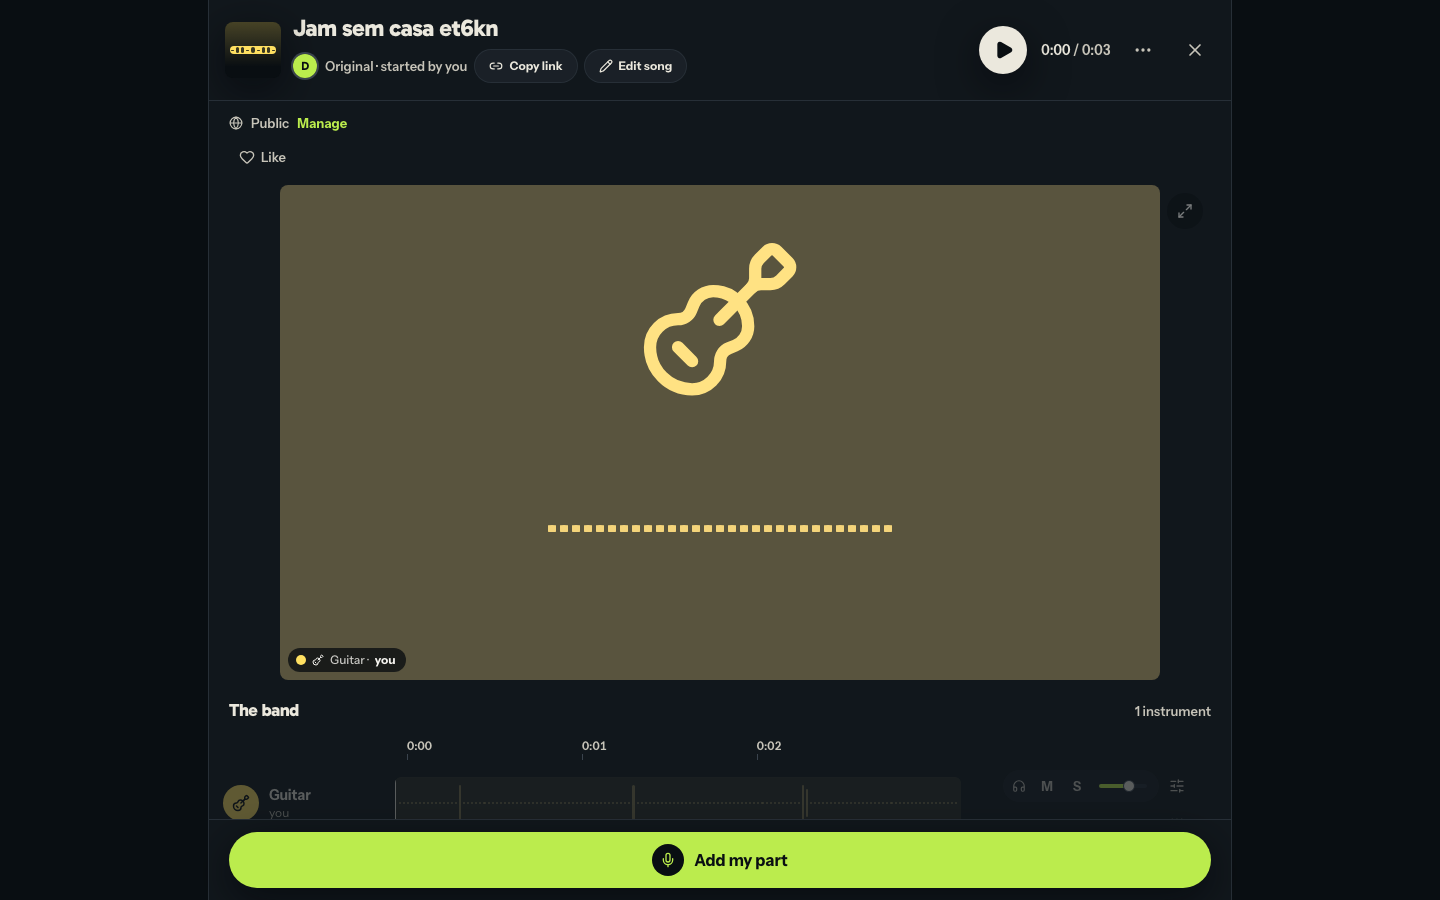
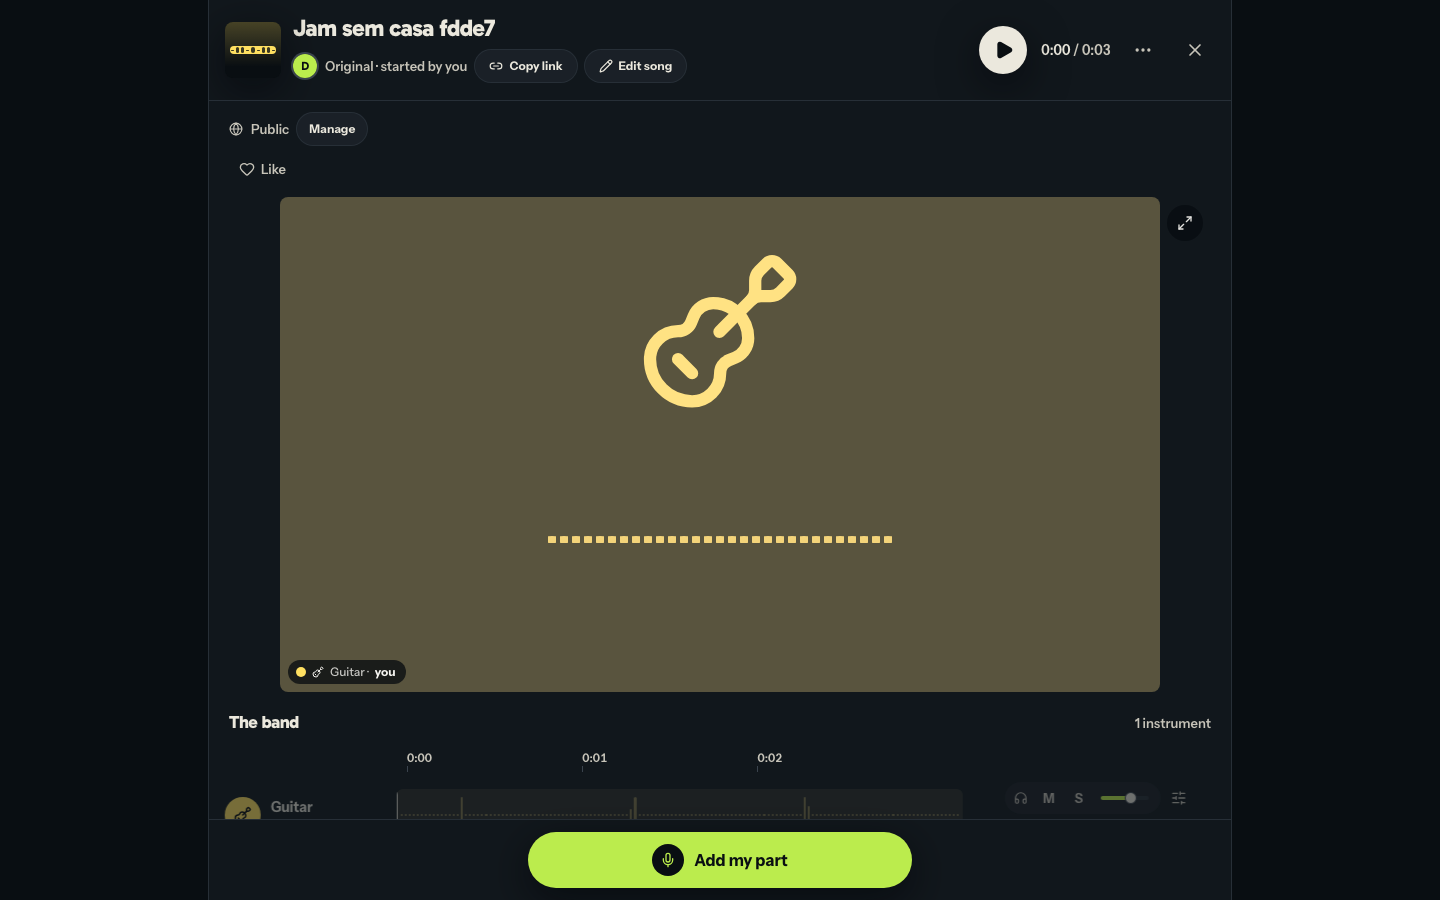
Public jams in the app: review fixes (consent, strips, shelf art, send-my-part)
Claude-Session: https://claude.ai/code/session_01SbDEYcT1nVK2TvtouUGA4w

diff --git a/client/src/components/jam/jam-public-sheet.tsx b/client/src/components/jam/jam-public-sheet.tsx
@@ -105,7 +105,7 @@ export function JamPublicSheet({ open, onClose, songId, viewerId, songTitle, ori
                 </ul>
                 <p>{t("jam.public.sheet.consent")}</p>
                 {hasOrigin && (
-                  <div className="rounded-[var(--radius-card)] bg-surface-2 px-3.5 py-1">
+                  <div className="rounded-[var(--radius-card)] bg-surface-2 px-2 py-1">
                     <Switch
                       checked={showOriginDraft}
                       onCheckedChange={setShowOriginDraft}
@@ -156,19 +156,22 @@ export function JamPublicSheet({ open, onClose, songId, viewerId, songTitle, ori
       <DialogBody>
         <div className="flex flex-col gap-4 text-sm leading-snug text-text-secondary" data-jam-public-sheet="on">
           <p role="status" className="text-text" data-jam-public-status={pub.status}>
-            {pub.status === "live" && !pub.listed ? t("jam.public.status.liveUnlisted") : t(`jam.public.status.${pub.status}` as MessageKey)}
+            {pub.status === "live" && pub.listed ? (
+              <a
+                href={publicUrl}
+                target="_blank"
+                rel="noreferrer"
+                className="font-semibold text-accent underline-offset-2 hover:underline focus-visible:rounded-sm focus-visible:outline-none focus-visible:ring-2 focus-visible:ring-focus-ring"
+              >
+                {t("jam.public.status.live")}
+              </a>
+            ) : pub.status === "live" ? (
+              t("jam.public.status.liveUnlisted")
+            ) : (
+              t(`jam.public.status.${pub.status}` as MessageKey)
+            )}
           </p>
           {pub.status === "live" && !pub.listed && <p>{t("jam.public.manage.notListed")}</p>}
-          {pub.status === "live" && pub.listed && (
-            <a
-              href={publicUrl}
-              target="_blank"
-              rel="noreferrer"
-              className="w-fit font-semibold text-accent underline-offset-2 hover:underline focus-visible:rounded-sm focus-visible:outline-none focus-visible:ring-2 focus-visible:ring-focus-ring"
-            >
-              {t("jam.public.manage.open")}
-            </a>
-          )}
 
           {parts.length > 0 && (
             <section aria-labelledby="jam-public-parts" className="flex flex-col gap-1.5">
@@ -201,14 +204,8 @@ export function JamPublicSheet({ open, onClose, songId, viewerId, songTitle, ori
             </section>
           )}
 
-          {pub.pendingTakes > 0 && (
-            <p data-jam-public-pending-takes="">
-              {t("jam.public.manage.pendingTakes", { count: pub.pendingTakes, countLabel: pub.pendingTakes })}
-            </p>
-          )}
-
           {pub.hasOrigin && originName !== null && (
-            <div className="rounded-[var(--radius-card)] bg-surface-2 px-3.5 py-1">
+            <div className="rounded-[var(--radius-card)] bg-surface-2 px-2 py-1">
               <Switch
                 checked={pub.showOrigin}
                 busy={busy}

diff --git a/client/src/components/jam/jam-public-parts.tsx b/client/src/components/jam/jam-public-parts.tsx
@@ -34,13 +34,13 @@ export function JamConsentChoices({
   const { t } = useTranslation();
   return (
     <div role="group" aria-label={t("jam.public.consent.legend")} className={cn("flex flex-wrap items-center gap-2", className)}>
-      <Button size="sm" variant={current === undefined || current === "yes" ? "default" : "secondary"} aria-pressed={pick("yes")} disabled={busy} onClick={() => onChoose("yes")} data-jam-consent="yes">
+      <Button size="sm" className="pointer-coarse:h-11" variant={current === "yes" ? "default" : "secondary"} aria-pressed={pick("yes")} disabled={busy} onClick={() => onChoose("yes")} data-jam-consent="yes">
         {t("jam.public.consent.yes")}
       </Button>
-      <Button size="sm" variant={current === "audio_only" ? "default" : "secondary"} aria-pressed={pick("audio_only")} disabled={busy} onClick={() => onChoose("audio_only")} data-jam-consent="audio_only">
+      <Button size="sm" className="pointer-coarse:h-11" variant={current === "audio_only" ? "default" : "secondary"} aria-pressed={pick("audio_only")} disabled={busy} onClick={() => onChoose("audio_only")} data-jam-consent="audio_only">
         {t("jam.public.consent.audioOnly")}
       </Button>
-      <Button size="sm" variant={current === "no" ? "default" : "ghost"} aria-pressed={pick("no")} disabled={busy} onClick={() => onChoose("no")} data-jam-consent="no">
+      <Button size="sm" className="pointer-coarse:h-11" variant={current === "no" ? "default" : "secondary"} aria-pressed={pick("no")} disabled={busy} onClick={() => onChoose("no")} data-jam-consent="no">
         {t("jam.public.consent.no")}
       </Button>
     </div>
@@ -131,16 +131,16 @@ export function JamPublicRequests({
                   variant="secondary"
                   aria-pressed={heard}
                   onClick={() => onListen(track)}
-                  className="gap-1.5"
+                  className="gap-1.5 pointer-coarse:h-11"
                   data-jam-request-listen=""
                 >
                   {heard && playing ? <Pause className="h-3.5 w-3.5" aria-hidden /> : <Ear className="h-3.5 w-3.5" aria-hidden />}
                   {heard && playing ? t("jam.public.requests.stop") : t("jam.public.requests.listen")}
                 </Button>
-                <Button size="sm" disabled={busy} onClick={() => onAccept(track)} data-jam-request-accept="">
+                <Button size="sm" className="pointer-coarse:h-11" disabled={busy} onClick={() => onAccept(track)} data-jam-request-accept="">
                   {t("jam.public.requests.accept")}
                 </Button>
-                <Button size="sm" variant="ghost" disabled={busy} onClick={() => onDecline(track)} data-jam-request-decline="">
+                <Button size="sm" variant="secondary" className="pointer-coarse:h-11" disabled={busy} onClick={() => onDecline(track)} data-jam-request-decline="">
                   {t("jam.public.requests.decline")}
                 </Button>
               </div>

diff --git a/client/src/components/jam/jam-public-shelf.tsx b/client/src/components/jam/jam-public-shelf.tsx
@@ -93,7 +93,7 @@ function ShelfCard({ song }: { song: PublicJamSong }) {
         <span className="truncate text-sm font-bold text-text group-hover:underline">{song.title}</span>
         <span className="truncate text-[13px] text-text-secondary">{song.artist ?? who}</span>
         {need ? (
-          <span className={cn("truncate text-[13px] font-semibold", JAM_INSTRUMENT_LOOK[need].ink)}>
+          <span className="truncate text-[13px] font-semibold text-text-secondary">
             {t(JAM_INSTRUMENT_LOOK[need].missingKey as MessageKey)}
           </span>
         ) : (
@@ -106,20 +106,34 @@ function ShelfCard({ song }: { song: PublicJamSong }) {
   );
 }
 
-/** The cover when it passed the scanner, otherwise a small square per part in its instrument's colour. */
+/**
+ * The cover when it passed the scanner. Otherwise a small square per part in its
+ * instrument's colour and a dashed one for what it still asks for, in a 2 by 2
+ * that is always the same size, so a song with one part is a quiet card and not
+ * a block of colour.
+ */
 function ShelfArt({ song }: { song: PublicJamSong }) {
-  const parts = song.parts.slice(0, 4);
+  const cells = [
+    ...song.parts.map((part) => ({ instrument: part.instrument, need: false })),
+    ...song.needs.map((instrument) => ({ instrument, need: true })),
+  ].slice(0, 4);
   return (
     <span className="relative block aspect-square w-full overflow-hidden rounded-[var(--radius-panel)] bg-surface-2 ring-1 ring-inset ring-border">
       {song.coverUrl ? (
         <img src={song.coverUrl} alt="" loading="lazy" decoding="async" draggable={false} className="absolute inset-0 h-full w-full object-cover" />
       ) : (
-        <span className={cn("grid h-full w-full gap-1.5 p-2", parts.length > 1 ? "grid-cols-2 grid-rows-2" : "grid-cols-1")}>
-          {parts.map((part, index) => {
-            const look = JAM_INSTRUMENT_LOOK[part.instrument];
+        <span className="grid h-full w-full grid-cols-2 grid-rows-2 gap-1.5 p-2">
+          {cells.map((cell, index) => {
+            const look = JAM_INSTRUMENT_LOOK[cell.instrument];
             const Icon = look.icon;
             return (
-              <span key={index} className={cn("grid place-items-center rounded-[var(--radius-control)]", look.fill)}>
+              <span
+                key={index}
+                className={cn(
+                  "grid place-items-center rounded-[var(--radius-control)]",
+                  cell.need ? cn("border-2 border-dashed border-border-strong", look.ink) : look.fill,
+                )}
+              >
                 <Icon className="h-5 w-5" aria-hidden />
               </span>
             );

diff --git a/client/src/components/jam/jam-song-panel.tsx b/client/src/components/jam/jam-song-panel.tsx
@@ -308,7 +308,11 @@ export function JamSongPanel({
     ...manageItems,
   ];
 
-  const recordLabel = isEmpty
+  // An outside take is a request: the button says so, and a line under it says who decides.
+  const outsideRecord = publicView && viewer?.isAuthor !== true && song.channelId === null;
+  const recordLabel = outsideRecord
+    ? t("jam.public.outside.sendPart")
+    : isEmpty
     ? t("jam.song.recordFirst")
     : first && need.kind === "missing" && need.instruments.includes(first)
       ? t(`jam.song.recordAs.${first}` as MessageKey)
@@ -658,7 +662,8 @@ export function JamSongPanel({
             type="button"
             data-jam-record-over=""
             onClick={() => onRecord(first, need.kind === "missing")}
-            className="group relative flex h-14 w-full items-center justify-center gap-2.5 overflow-hidden rounded-full bg-accent text-base font-extrabold [@media(max-height:32rem)]:h-11 text-on-accent shadow-[var(--shadow-2)] outline-none transition-[transform,box-shadow] duration-[var(--duration-fast)] hover:shadow-[var(--shadow-3)] focus-visible:ring-2 focus-visible:ring-focus-ring focus-visible:ring-offset-2 focus-visible:ring-offset-surface-1 motion-safe:hover:scale-[1.01] active:scale-[0.98]"
+            data-public-dock={publicView ? "" : undefined}
+            className="group relative flex h-14 w-full data-[public-dock]:sm:mx-auto data-[public-dock]:sm:max-w-sm items-center justify-center gap-2.5 overflow-hidden rounded-full bg-accent text-base font-extrabold [@media(max-height:32rem)]:h-11 text-on-accent shadow-[var(--shadow-2)] outline-none transition-[transform,box-shadow] duration-[var(--duration-fast)] hover:shadow-[var(--shadow-3)] focus-visible:ring-2 focus-visible:ring-focus-ring focus-visible:ring-offset-2 focus-visible:ring-offset-surface-1 motion-safe:hover:scale-[1.01] active:scale-[0.98]"
           >
             <span className="grid h-8 w-8 place-items-center rounded-full bg-on-accent text-accent transition-transform duration-[var(--duration-base)] ease-[var(--ease-emphasized)] motion-safe:group-hover:scale-110">
               <Mic className="h-4 w-4" aria-hidden />
@@ -672,6 +677,11 @@ export function JamSongPanel({
               {t(`jam.song.cannot.${reason}` as MessageKey)}
             </p>
           )
+        )}
+        {outsideRecord && reason === null && first && (
+          <p data-jam-outside-hint="" className="text-center text-[13px] leading-snug text-text-secondary [text-wrap:pretty]">
+            {t("jam.public.outside.sendHint")}
+          </p>
         )}
       </footer>
 

diff --git a/client/src/components/jam/jam-public-panel.tsx b/client/src/components/jam/jam-public-panel.tsx
@@ -175,16 +175,8 @@ export function useJamPublicPanel(args: UseJamPublicPanelArgs): JamPublicPanelPi
   // ---- the quiet lines under the title ---------------------------------------
   const lines: ReactNode[] = [];
   if (me.enabled && isStarter && on && publication) {
-    // Parts in the mix: an outside request is a question for the starter, not somebody who has answered.
-    const inMixParts = publication.parts.filter((part) => part.inMix);
-    const answered = inMixParts.filter((part) => part.consent !== "pending").length;
+    // One fact and the way in. Who answered is in the sheet; the outside requests are listed below the stage.
     const bits = [t(`jam.public.status.short.${publication.status}` as MessageKey)];
-    if (publication.status === "live" && inMixParts.length > 1) {
-      bits.push(t("jam.public.manage.answered", { done: answered, total: inMixParts.length }));
-    }
-    if (publication.pendingTakes > 0) {
-      bits.push(t("jam.public.manage.pendingTakesShort", { count: publication.pendingTakes, countLabel: publication.pendingTakes }));
-    }
     lines.push(
       <p key="status" data-jam-public-line="status" className="flex flex-wrap items-center gap-x-2 gap-y-1 text-[13px] font-semibold text-text-secondary">
         <Globe className="h-3.5 w-3.5 shrink-0" aria-hidden />
@@ -193,7 +185,7 @@ export function useJamPublicPanel(args: UseJamPublicPanelArgs): JamPublicPanelPi
           type="button"
           onClick={() => setSheetOpen(true)}
           data-jam-public-manage=""
-          className="rounded-sm font-bold text-accent underline-offset-2 hover:underline focus-visible:outline-none focus-visible:ring-2 focus-visible:ring-focus-ring"
+          className="inline-flex min-h-8 items-center rounded-full bg-surface-2 px-3 text-xs font-bold text-text outline-none ring-1 ring-border transition-colors duration-[var(--duration-fast)] hover:bg-border focus-visible:ring-2 focus-visible:ring-focus-ring pointer-coarse:min-h-11"
         >
           {t("jam.public.menu.manageShort")}
         </button>

diff --git a/client/src/components/jam/jam-public-waiting.tsx b/client/src/components/jam/jam-public-waiting.tsx
@@ -32,16 +32,24 @@ export function JamPublicWaitingStrip() {
     <>
       {waiting.consents.length > 0 && (
         <p className={row} role="status" data-jam-waiting="consent">
-          <span className="min-w-0">{t("jam.public.waiting.consents", { count: waiting.consents.length, countLabel: waiting.consents.length })}</span>
-          <Button size="sm" variant="secondary" onClick={() => setConsentOpen(true)} data-jam-waiting-open="consent">
+          <span className="min-w-0">
+            {waiting.consents.length === 1
+              ? t("jam.public.waiting.consentOne", { title: waiting.consents[0]!.title })
+              : t("jam.public.waiting.consents", { count: waiting.consents.length, countLabel: waiting.consents.length })}
+          </span>
+          <Button size="sm" variant="secondary" className="pointer-coarse:h-11" onClick={() => setConsentOpen(true)} data-jam-waiting-open="consent">
             {t("jam.public.waiting.answer")}
           </Button>
         </p>
       )}
       {waiting.inbox.length > 0 && (
         <p className={row} role="status" data-jam-waiting="inbox">
-          <span className="min-w-0">{t("jam.public.waiting.takes", { count: waiting.inbox.length, countLabel: waiting.inbox.length })}</span>
-          <Button size="sm" variant="secondary" onClick={() => setInboxOpen(true)} data-jam-waiting-open="inbox">
+          <span className="min-w-0">
+            {waiting.inbox.length === 1
+              ? t("jam.public.waiting.takeOne", { title: waiting.inbox[0]!.songTitle })
+              : t("jam.public.waiting.takes", { count: waiting.inbox.length, countLabel: waiting.inbox.length })}
+          </span>
+          <Button size="sm" variant="secondary" className="pointer-coarse:h-11" onClick={() => setInboxOpen(true)} data-jam-waiting-open="inbox">
             {t("jam.public.waiting.see")}
           </Button>
         </p>
